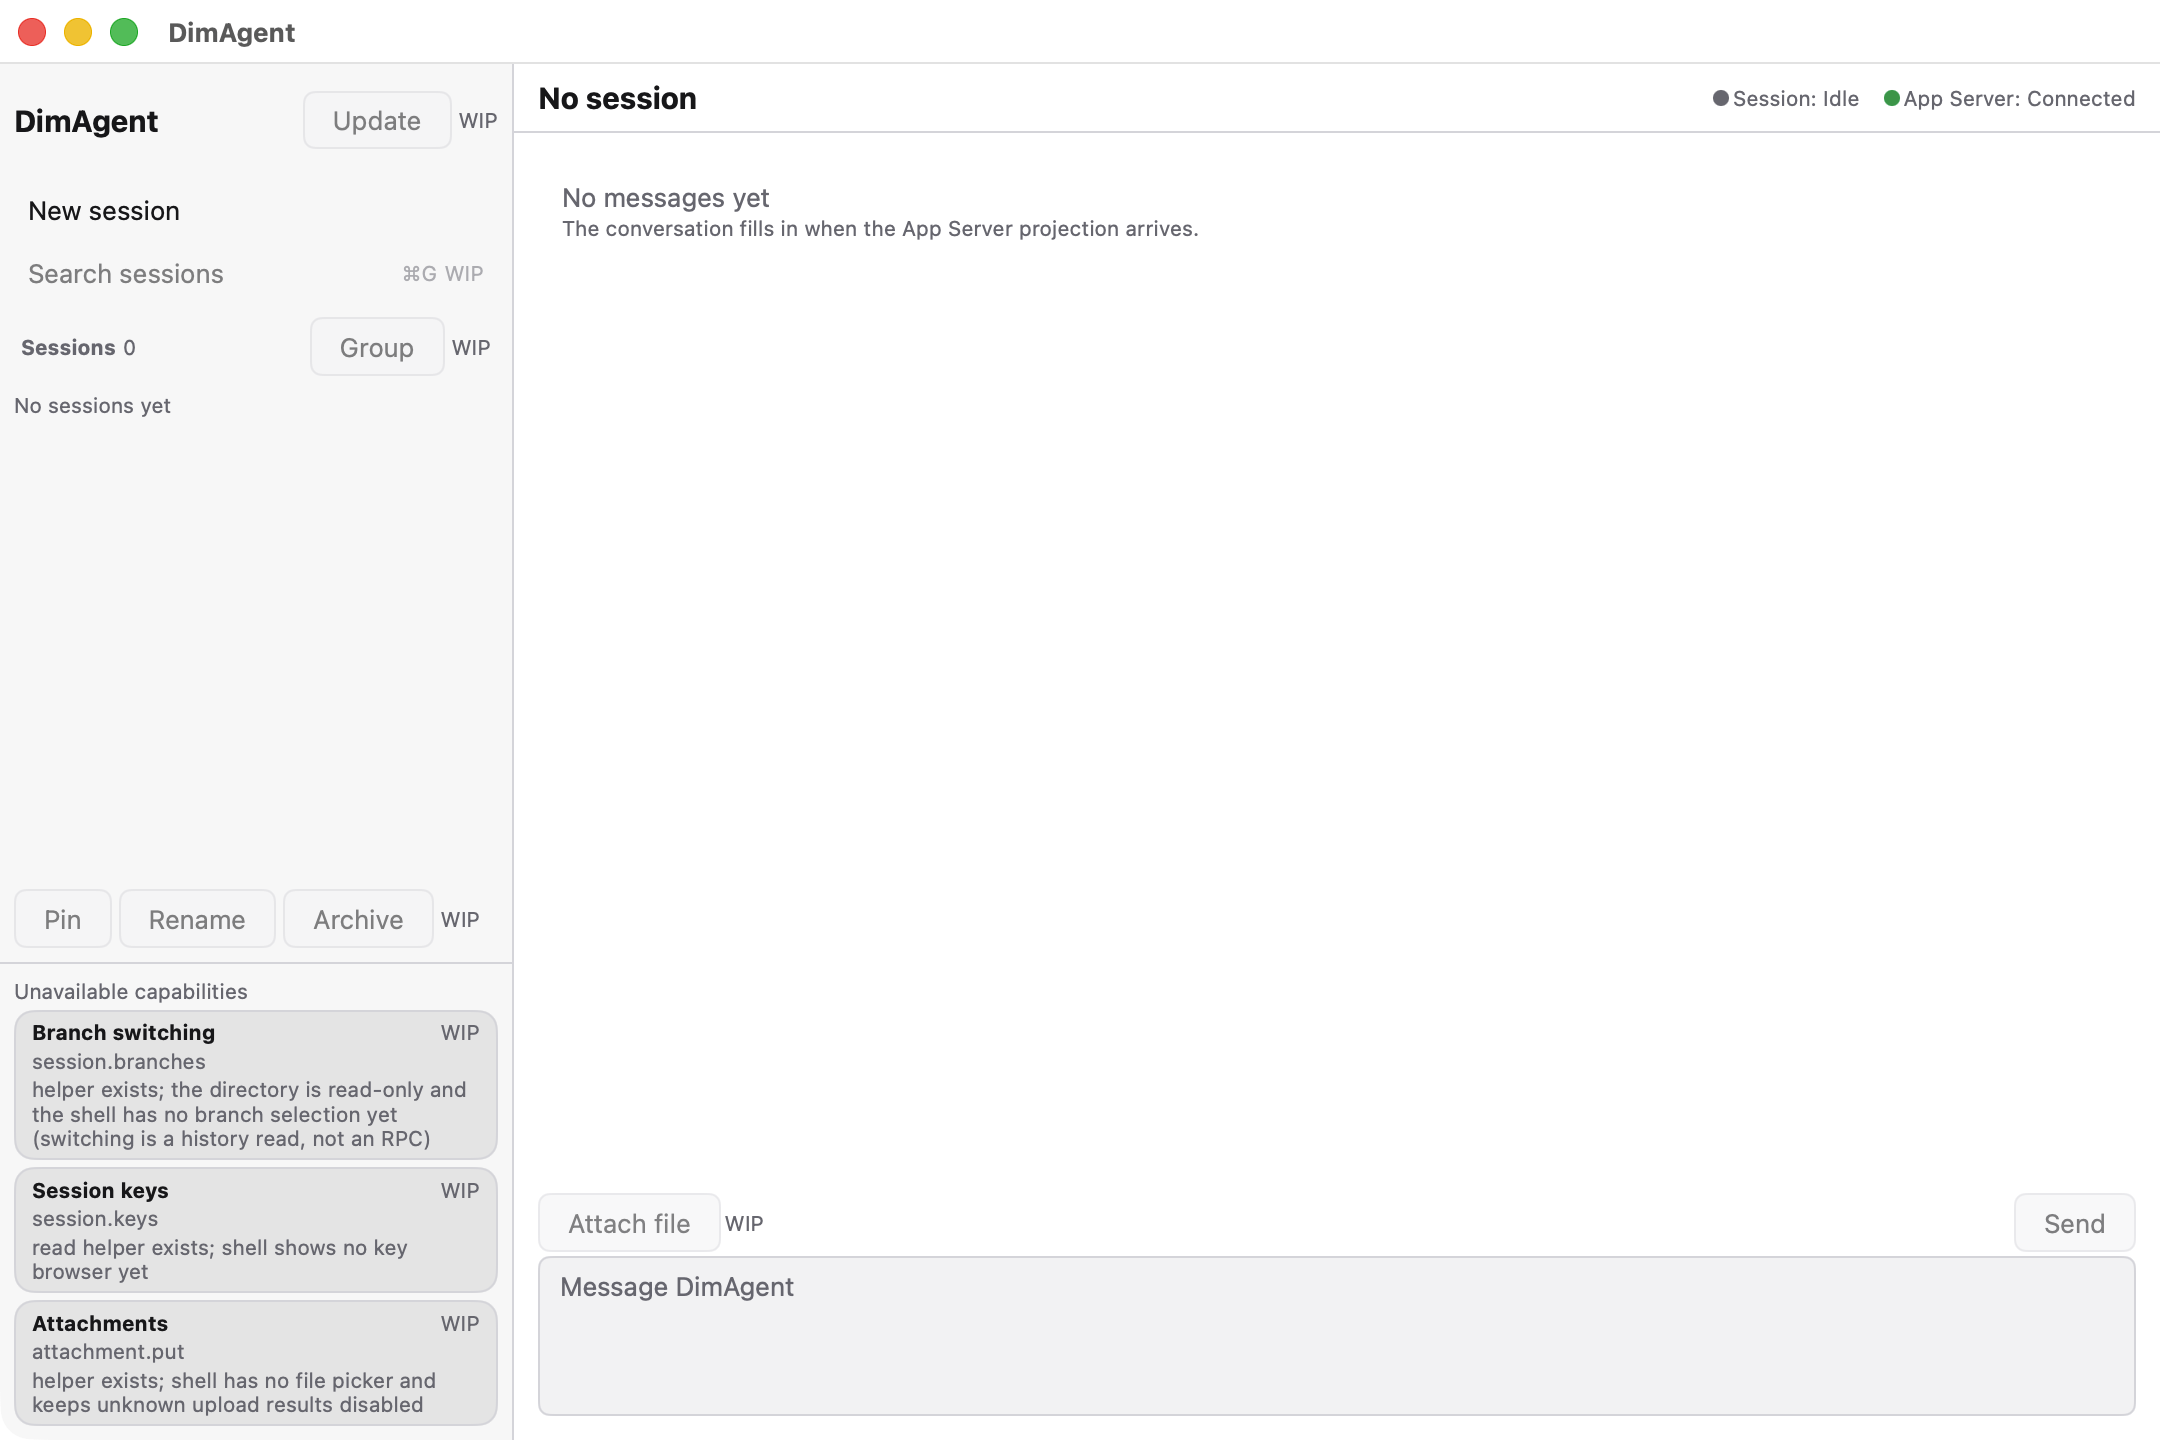
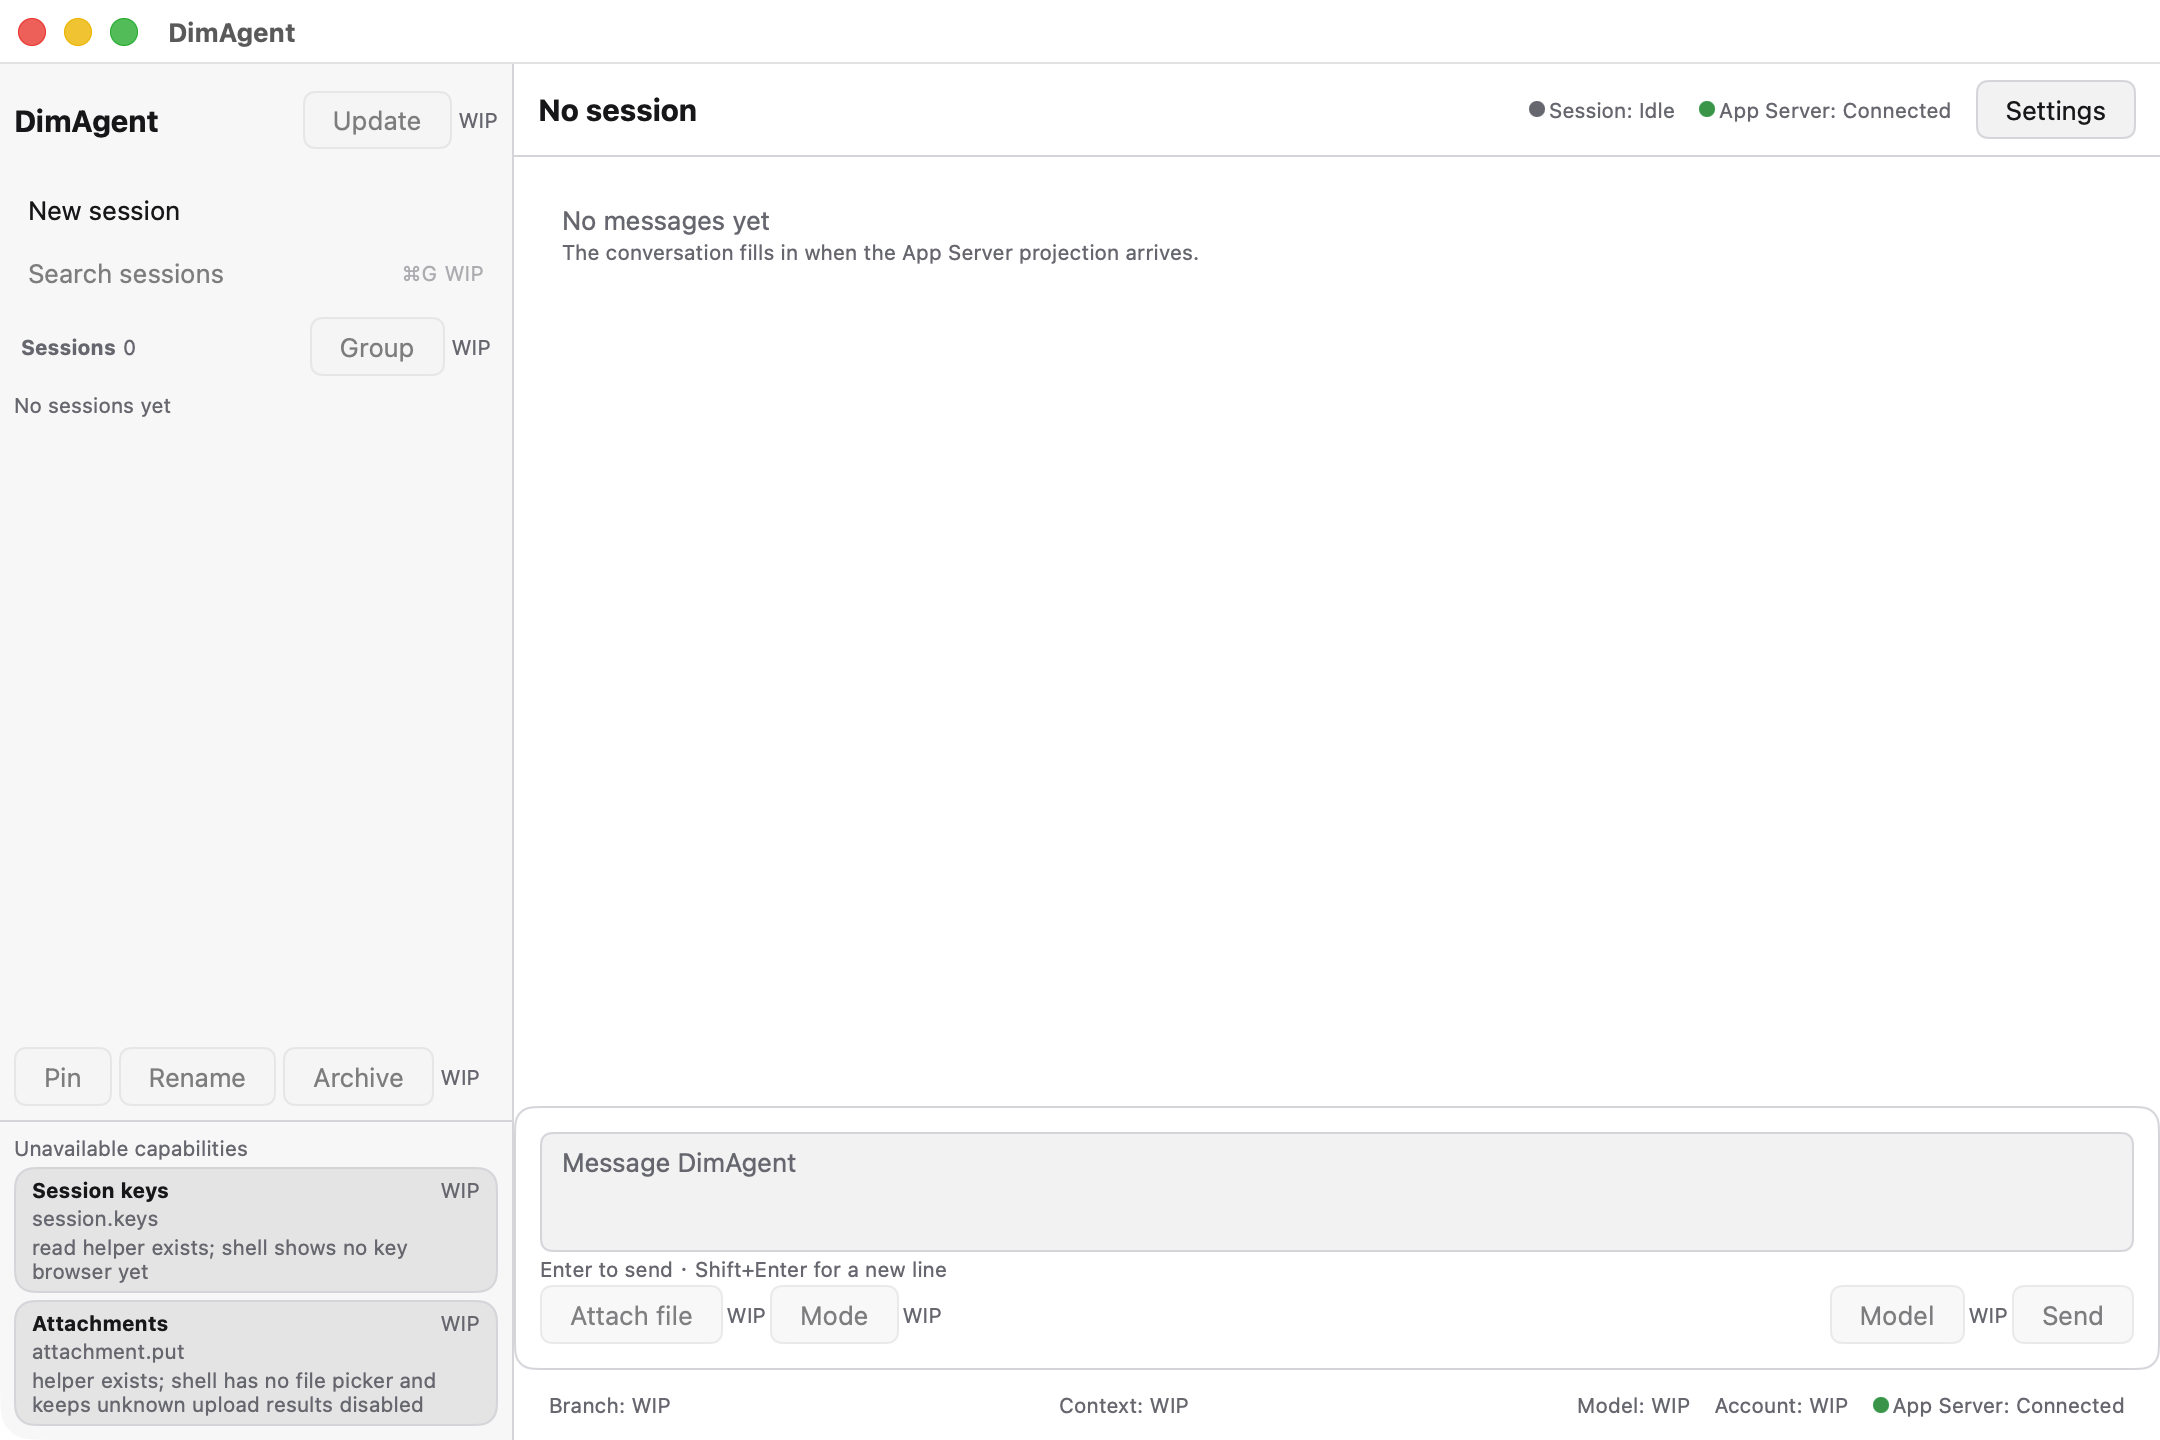
docs: refresh window evidence on the component wave

diff --git a/docs/window-evidence.md b/docs/window-evidence.md
@@ -12,14 +12,14 @@
 |---|---|
 | 机器 | macOS 26.6.2（darwin/arm64） |
 | Go | go1.27.3 darwin/arm64 |
-| 源码 | `HEAD = 2701701baf454dd3e823ddbfbc69983d56d4d5e5`，工作区 clean（2026-11-09 12:31 重跑） |
-| 构建时间 | 2026-11-09 12:31:10 CST |
+| 源码 | `HEAD = 1c297d98b7ee48fe98af3c01ee3737089c386e2d`，工作区 clean（2026-11-09 13:31 重跑） |
+| 构建时间 | 2026-11-09 13:31:48 CST |
 | App Server 二进制 | `/tmp/dim-2-target/debug/dim-app-server`（Mach-O arm64，401 302 448 B，mtime 2026-11-08 23:38） |
 | 窗口库 | `github.com/egoist/mygo v0.8.3`（`mygo.NewWindow`，`Width: 1080`、`Height: 720`） |
 | 截图工具 | `/usr/sbin/screencapture -x -o -l <windowid>`（按窗口 ID 截取，只含该窗口，不含桌面和其它应用） |
 | 窗口 ID 来源 | `CGWindowListCopyWindowInfo`，按**本进程 PID** 过滤；脚本内用 `swiftc` 现场编译小工具读取 |
 
-2026-11-09 12:31 的这次采集在 `2701701`（P0 侧栏落地）上重跑，工作区 clean；`docs/evidence/window-*.txt` 的 `git_head` / `git_dirty` 记录同一事实。源码再变时截图即过期，需要重跑脚本。
+2026-11-09 13:31 的这次采集在 `1c297d9`（P0+部分 P1 组件与 branch 选择落地）上重跑，工作区 clean；`docs/evidence/window-*.txt` 的 `git_head` / `git_dirty` 记录同一事实。源码再变时截图即过期，需要重跑脚本。
 
 ## 2. 复现命令
 
@@ -37,14 +37,14 @@ cd /Users/eric8810/Code/dimagent-mygo
 4. 两种状态都在窗口拿到真实尺寸后 `sleep 1` 再截图；截图后按 PID 结束应用，并按「命令行里含本次临时 home 路径」精确结束本次 spawn 的 daemon；随后 `rm -rf` 临时 home。
 5. 全程不读写 `~/.dimcode`，不使用用户的真实 product home。结束时打印 `all requested captures done; no leftover daemon from this run`，并复查没有本次残留的 daemon。
 
-## 3. 采集结果（2026-11-09 12:31 CST）
+## 3. 采集结果（2026-11-09 13:31 CST）
 
 | 状态 | 采集时间 | 窗口 ID | 窗口位置/尺寸（points） | PNG 像素 | 字节 | PNG 路径 |
 |---|---|---|---|---|---|---|
-| 未连接 | 12:31:11 → 12:31:13 | 47447 | `484,116,1080,720` | 2160×1440（= 1080×720 @2x） | 239 087 | [`evidence/window-disconnected.png`](evidence/window-disconnected.png) |
-| 已连接 | 12:31:13 → 12:31:15 | 47456 | `484,116,1080,720` | 2160×1440（= 1080×720 @2x） | 239 332 | [`evidence/window-connected.png`](evidence/window-connected.png) |
+| 未连接 | 13:31:48 → 13:31:52 | 47683 | `484,116,1080,720` | 2160×1440（= 1080×720 @2x） | 233 937 | [`evidence/window-disconnected.png`](evidence/window-disconnected.png) |
+| 已连接 | 13:31:53 → 13:31:55 | 47693 | `484,116,1080,720` | 2160×1440（= 1080×720 @2x） | 232 581 | [`evidence/window-connected.png`](evidence/window-connected.png) |
 
-MD5：未连接 `d57959974c9da1bb30846f12a00f9b90`，已连接 `4ed688539410f15ffda29df0fe799400`。
+MD5：未连接 `5633351daee0524feab0534da928b67b`，已连接 `b57b3e2f949c7726c14103b354db0cc6`。
 
 机器可读的采集元数据（脚本生成，含源码快照、PID、窗口 ID、bounds、daemon 命令行）：
 [`evidence/window-disconnected.txt`](evidence/window-disconnected.txt)、[`evidence/window-connected.txt`](evidence/window-connected.txt)。
@@ -52,17 +52,17 @@ MD5：未连接 `d57959974c9da1bb30846f12a00f9b90`，已连接 `4ed688539410f15f
 已连接态截图时真实在跑的 daemon（取自元数据）：
 
 ```
-38616 /tmp/dim-2-target/debug/dim-app-server
-      --unix <tmp>/dimagent-product-home.ZW26LQ/rust/daemon.sock --no-ws
-      --home <tmp>/dimagent-product-home.ZW26LQ/rust
-      --product-home <tmp>/dimagent-product-home.ZW26LQ
+57155 /tmp/dim-2-target/debug/dim-app-server
+      --unix <tmp>/dimagent-product-home.4sRVYE/rust/daemon.sock --no-ws
+      --home <tmp>/dimagent-product-home.4sRVYE/rust
+      --product-home <tmp>/dimagent-product-home.4sRVYE
 ```
 
 截图结束后该进程随应用退出而消失，`ps aux | grep '[d]im-app-server'` 无输出；临时 home 已删除。
 
 ## 4. 截图上实际看到的内容
 
-两张图版式一致（`2701701` 的 P0 侧栏）：左侧栏顶部 `DimAgent` + `Update`（WIP），下面是 `New session`、`Search sessions`（⌘G，WIP）、`Sessions 0` + `Group`（WIP）、`No sessions yet`，再往下是 `Pin` / `Rename` / `Archive`（均 WIP）；右侧标题 `No session`，右上状态行 `● Session: Idle  ● App Server: <状态>`；中间 `No messages yet` / `The conversation fills in when the App Server projection arrives.`；底部 composer（`Message DimAgent` + `Send`，左侧 `Attach file` 带 `WIP` 标记）；左下 `Unavailable capabilities` 三张 WIP 卡片。
+两张图版式一致（`1c297d9`，P0 侧栏 + composer + 状态栏 + branch 选择）：左侧栏顶部 `DimAgent` + `Update`（WIP），下面是 `New session`、`Search sessions`（⌘G，WIP）、`Sessions 0` + `Group`（WIP）、`No sessions yet`，再往下是 `Pin` / `Rename` / `Archive`（均 WIP）；右侧标题 `No session`，右上状态行 `● Session: Idle  ● App Server: <状态>` 和一个 `Settings` 按钮；中间 `No messages yet` / `The conversation fills in when the App Server projection arrives.`；底部 composer（`Message DimAgent` 草稿框、`Enter to send · Shift+Enter for a new line`、`Attach file`/`Mode`/`Model` 均 WIP、`Send`）；最底部状态栏 `Branch: WIP · Context: WIP · Model: WIP · Account: WIP · App Server: <状态>`；左下 `Unavailable capabilities` 只剩 `Session keys` 与 `Attachments` 两张 WIP 卡（session 创建、branch 选择、审批、重连、停止都已接线）。
 
 | 差异点 | 未连接（`window-disconnected.png`） | 已连接（`window-connected.png`） |
 |---|---|---|
@@ -74,7 +74,6 @@ MD5：未连接 `d57959974c9da1bb30846f12a00f9b90`，已连接 `4ed688539410f15f
 
 WIP 卡片当时渲染出的文案（真实窗口内容，逐字抄录）：
 
-- `Branch switching` — `session.branches` — `helper exists; the directory is read-only and the shell has no branch selection yet (switching is a history read, not an RPC)`
 - `Session keys` — `session.keys` — `read helper exists; shell shows no key browser yet`
 - `Attachments` — `attachment.put` — `helper exists; shell has no file picker and keeps unknown upload results disabled`
 
